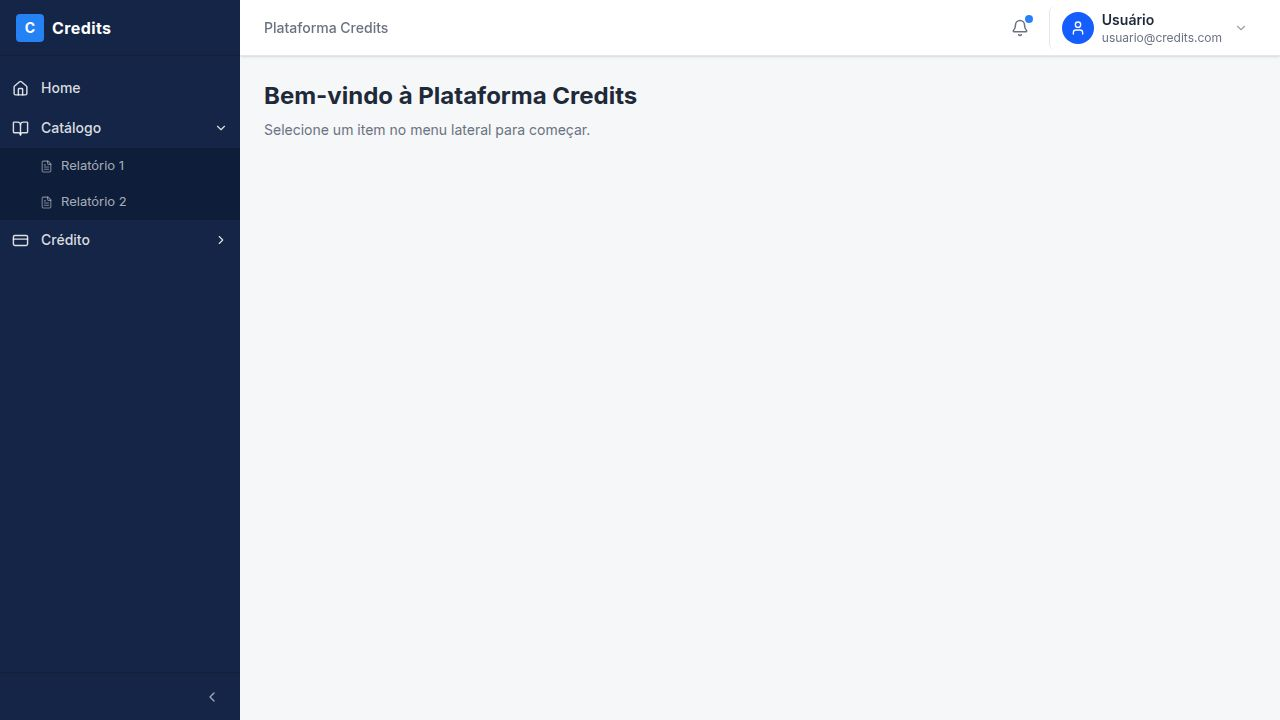
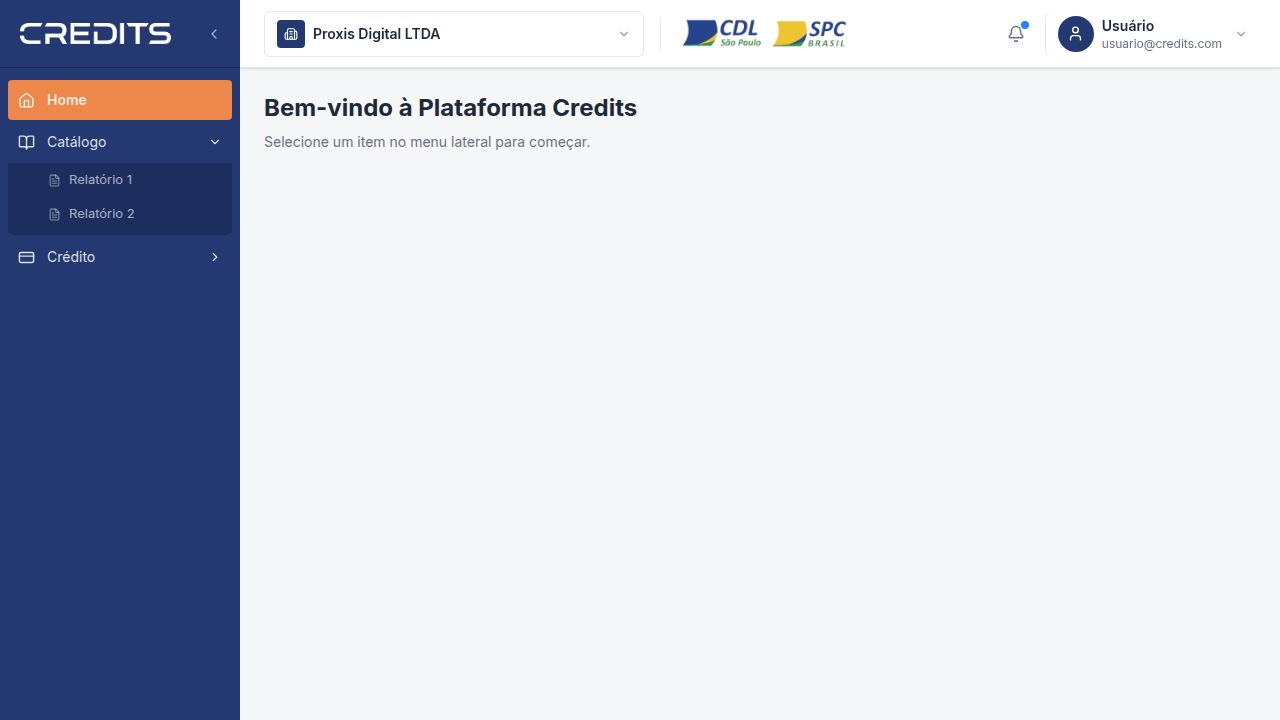
Add internal padding and rounded corners to menu items
Update Sidebar.tsx to apply horizontal padding and rounded corners to main and sub-menu items, adjusting height and left padding for a modern look.

Replit-Commit-Author: Agent
Replit-Commit-Session-Id: 86533a53-b9b6-4f8e-b457-d7d8ce6565c3
Replit-Commit-Checkpoint-Type: full_checkpoint
Replit-Commit-Event-Id: 80be0441-2f28-4963-b138-7da644dca0f1
Replit-Commit-Screenshot-Url: https://storage.googleapis.com/screenshot-production-us-central1/f090d5ab-ba7f-440f-bda1-797aa7ce0855/86533a53-b9b6-4f8e-b457-d7d8ce6565c3/caF39e9
Replit-Helium-Checkpoint-Created: true

Changed region(s): [[0.0, 0.0, 0.5, 1.0], [0.7812, 0.0, 0.9688, 0.0917], [0.5312, 0.0306, 0.6875, 0.0917]]

diff --git a/artifacts/credits-platform/src/components/layout/Sidebar.tsx b/artifacts/credits-platform/src/components/layout/Sidebar.tsx
@@ -160,7 +160,7 @@ export default function Sidebar({ collapsed, onToggle, headerHeight = 68 }: Side
       </div>
 
       {/* Navigation */}
-      <nav className="flex-1 overflow-y-auto overflow-x-hidden py-3">
+      <nav className="flex-1 overflow-y-auto overflow-x-hidden py-3 px-2">
         {menuItems.map((item) => {
           const Icon = item.icon;
           const hasSubItems = item.subItems && item.subItems.length > 0;
@@ -168,17 +168,16 @@ export default function Sidebar({ collapsed, onToggle, headerHeight = 68 }: Side
           const active = isItemActive(item);
 
           return (
-            <div key={item.id}>
+            <div key={item.id} className="mb-0.5">
               <button
                 onClick={() => hasSubItems ? toggleExpand(item.id) : undefined}
                 title={collapsed ? item.label : undefined}
-                className="w-full flex items-center text-left relative"
+                className="w-full flex items-center text-left relative rounded-md"
                 style={{
                   height: "40px",
-                  padding: collapsed ? "0 0 0 18px" : "0 12px",
+                  padding: collapsed ? "0 0 0 14px" : "0 10px",
                   color: "rgba(255,255,255,0.85)",
                   backgroundColor: active ? ACTIVE_ORANGE : "transparent",
-                  borderLeft: "3px solid transparent",
                   fontWeight: active ? 600 : 400,
                   transition: "background 0.15s, color 0.15s",
                 }}
@@ -220,23 +219,22 @@ export default function Sidebar({ collapsed, onToggle, headerHeight = 68 }: Side
 
               {/* Sub-items */}
               {hasSubItems && !collapsed && isExpanded && (
-                <div style={{ backgroundColor: SIDEBAR_SUB_BG }}>
+                <div className="px-1 pb-1" style={{ backgroundColor: SIDEBAR_SUB_BG, borderRadius: "0 0 6px 6px", marginTop: "1px" }}>
                   {item.subItems!.map((sub) => {
                     const subActive = location === sub.path;
                     return (
                       <a
                         key={sub.path}
                         href={sub.path}
-                        className="flex items-center"
+                        className="flex items-center rounded-md mx-1"
                         style={{
-                          height: "36px",
-                          padding: "0 12px 0 40px",
+                          height: "34px",
+                          padding: "0 10px 0 32px",
                           color: subActive ? "white" : "rgba(255,255,255,0.65)",
                           fontSize: "13px",
                           fontWeight: subActive ? 600 : 400,
                           textDecoration: "none",
                           backgroundColor: subActive ? ACTIVE_ORANGE : "transparent",
-                          borderLeft: "3px solid transparent",
                           transition: "background 0.15s, color 0.15s",
                         }}
                         onMouseEnter={(e) => {